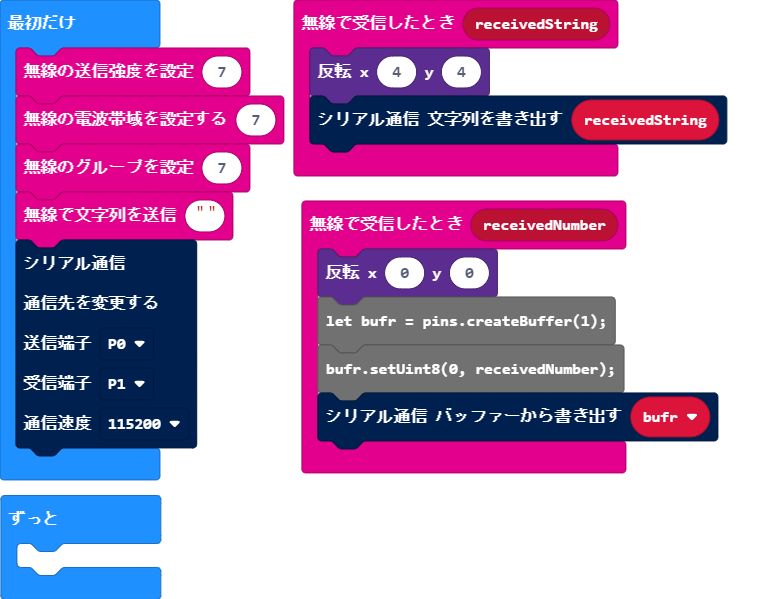
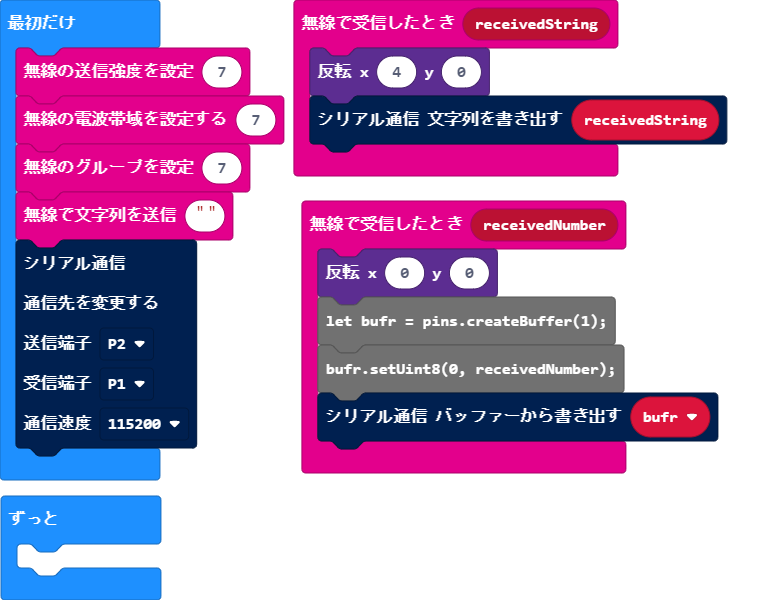
シリアル通信の設定をyin:bitに合わせた

diff --git a/main.ts b/main.ts
@@ -5,7 +5,7 @@ bufr.setUint8(0, receivedNumber);
 serial.writeBuffer(bufr)
 })
 radio.onReceivedString(function (receivedString) {
-    led.toggle(4, 4)
+    led.toggle(4, 0)
     serial.writeString(receivedString)
 })
 radio.setTransmitPower(7)
@@ -13,7 +13,7 @@ radio.setFrequencyBand(7)
 radio.setGroup(7)
 radio.sendString("")
 serial.redirect(
-SerialPin.P0,
+SerialPin.P2,
 SerialPin.P1,
 BaudRate.BaudRate115200
 )
